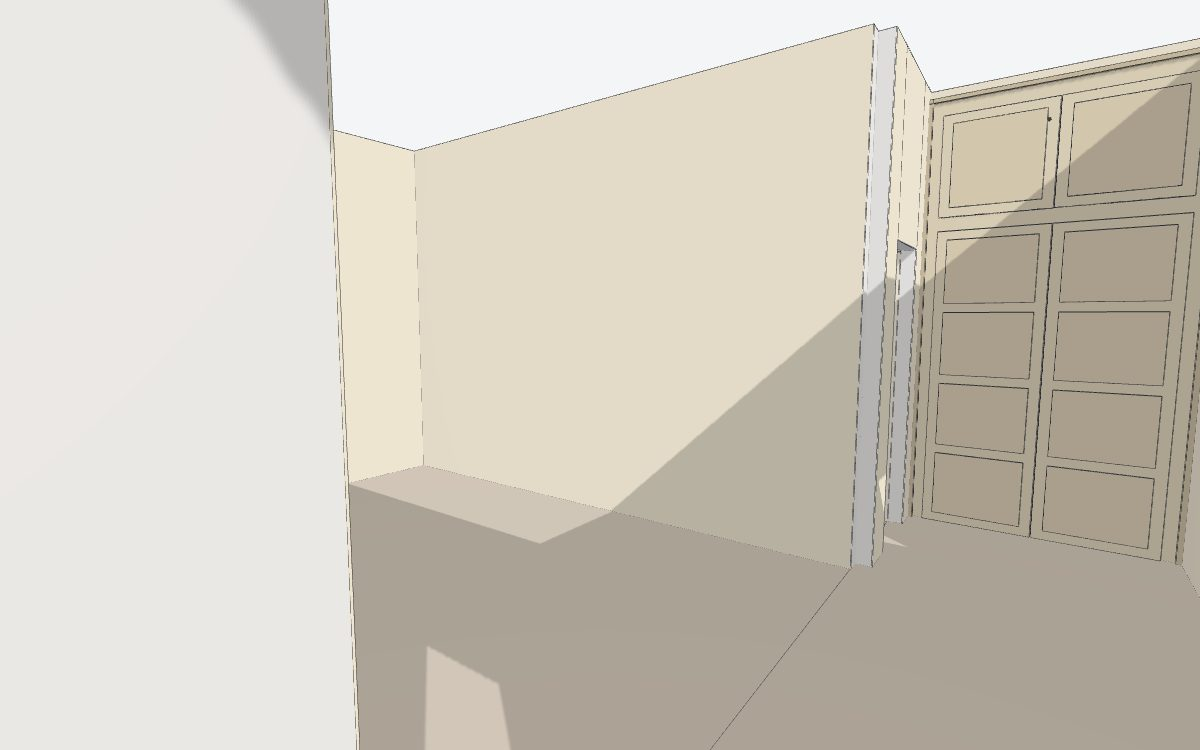
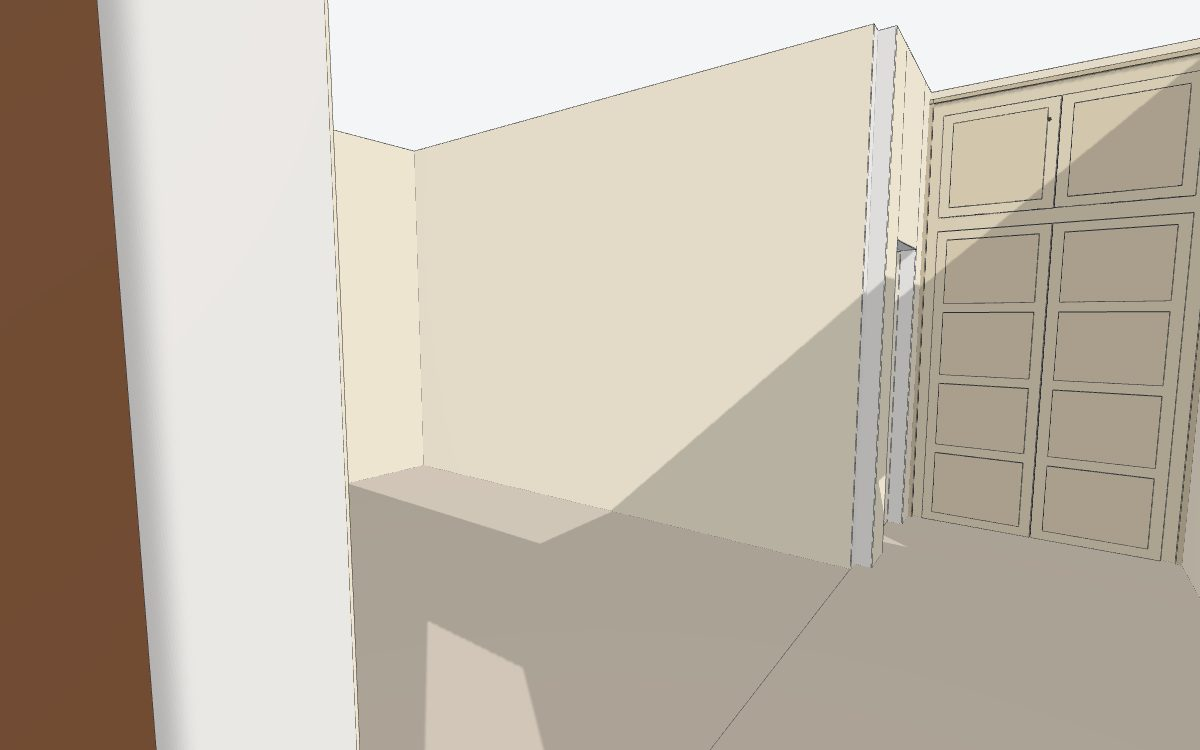
casa-poggi: wall thicknesses from the drawing (bearing 35, camera west and cucina 20, stair 15, partitions 10)
Claude-Session: https://claude.ai/code/session_017Czcnh6xzZxgGSwco7M1Pu

diff --git a/projects/casa-poggi/house.js b/projects/casa-poggi/house.js
@@ -8,9 +8,11 @@ const { box, wall, slab, tube, rbox, group, defGroup } = kit;
 
 // ---------- dimensions (cm) ----------
 const H = 330;                     // ceiling height                                   measured
-const TE = 30;                     // exterior / bearing walls                         estimate
-const TI = 10;                     // partitions                                       estimate
-const TB = 11;                     // partition soggiorno / bagno (360 + TB + 129 = ingresso 500)   estimate
+const TE = 35;                     // bearing walls: cortile and via Poggi facades, east wall   measured on the drawing (scale 3.53 cm/pt)
+const TW = 20;                     // camera west wall, cucina outer walls                    measured on the drawing
+const TS = 15;                     // wall towards the common stair (soggiorno, ingresso)     measured on the drawing
+const TI = 10;                     // partitions                                       user
+const TB = 10;                     // partition soggiorno / bagno                     user
 const ROOMS = {                    // clear interior sizes
   soggiorno: { w: 360, d: 440 },   // measured
   bagno:     { w: 129, d: 440 },   // measured
@@ -25,7 +27,7 @@ const WB = { w: 40, h: 150, sill: 110 };   // bathroom window; sill             
 const DOOR_H = 210, DOOR_W = 80;   // interior doors                                   estimate
 const ENTRY_W = 90;                // front door                                       estimate
 const K_SLANT = { west: 134, south: 63 };   // cucina oblique corner: straight west side 134 of 185, straight south side from the slant to the partition 99 - 63 = 36   estimate (read off the drawing)
-const TK = 15;                     // cucina outer walls (thin on the drawing)         estimate
+const TK = TW;                     // cucina outer walls
 
 // ---------- layout (derived) ----------
 const XR = ROOMS.ingresso.w;                       // inner face of the east wall (500)
@@ -42,11 +44,11 @@ const C = { wall: [236, 233, 228, 255], floor: [196, 186, 172, 255], balcony: [1
 const pf = (cx) => ({ from: cx - PF.w / 2, to: cx + PF.w / 2, head: PF.h });
 
 // ---------- floor ----------
-box('/Casa/Pavimento_Ingresso', C.floor, -TE, YI0 - TI, -4, XR + TE, YS0, 0);
+box('/Casa/Pavimento_Ingresso', C.floor, -TS, YI0 - TI, -4, XR + TE, YS0, 0);
 box('/Casa/Pavimento_Bagno', C.floor, ROOMS.soggiorno.w, YS0, -4, XR + TE, YS1 + TE, 0);
 box('/Casa/Pavimento_Soggiorno', C.floor, 0, YS0, -4, ROOMS.soggiorno.w, YS1 + TE, 0);
 // camera: herringbone parquet (honey oak, 7 x 42 cm boards at 45 degrees, from the user's photo) + darker border band   pattern measured on photo, sizes estimate
-slab('/Casa/Camera/Parquet', [150, 95, 50, 255], [[XC0 - TE, -TE], [XR + TE, -TE], [XR + TE, YI0 - TI], [XC0 - TE, YI0 - TI]], -4, 0);
+slab('/Casa/Camera/Parquet', [150, 95, 50, 255], [[XC0 - TW, -TE], [XR + TE, -TE], [XR + TE, YI0 - TI], [XC0 - TW, YI0 - TI]], -4, 0);
 kit.items[kit.items.length - 1].tex = { url: 'textures/parquet-spina.png', tile: kit.inch(PARQUET.tile) };
 { const o = PARQUET.bandOff, w = PARQUET.bandW, x0 = XC0, x1 = XR, y0 = 0, y1 = YC1, z = 0.3;
   box('/Casa/Camera/Fascia_Sud', PARQUET.band, x0 + o, y0 + o, 0, x1 - o, y0 + o + w, z);
@@ -59,10 +61,10 @@ const ENTRY = { from: YI0 + 35, to: YI0 + 35 + ENTRY_W, head: DOOR_H };
 const SOG_PF = pf(140), CAM_PF = pf(XC0 + 145), BAGNO_WIN = { from: XB0 + 30, to: XB0 + 30 + WB.w, sill: WB.sill, head: WB.sill + WB.h };
 wall('/Casa/Muro_Nord', C.wall, [XK0 - TK, YS1, XR + TE, YS1 + TE], H, [SOG_PF, BAGNO_WIN]);
 wall('/Casa/Muro_Est', C.wall, [XR, -TE, XR + TE, YS1], H);
-wall('/Casa/Muro_Sud', C.wall, [XC0 - TE, -TE, XR, 0], H, [CAM_PF]);
-wall('/Casa/Muro_Ovest_Camera', C.wall, [XC0 - TE, 0, XC0, YC1], H);
-wall('/Casa/Muro_Ovest_Ingresso', C.wall, [-TE, YC1, 0, YK0 - TK], H, [ENTRY]);   // front door from the common stair
-wall('/Casa/Muro_Ingresso_Camera_Ovest', C.wall, [-TE, YC1, XC0, YI0], H);
+wall('/Casa/Muro_Sud', C.wall, [XC0 - TW, -TE, XR, 0], H, [CAM_PF]);
+wall('/Casa/Muro_Ovest_Camera', C.wall, [XC0 - TW, 0, XC0, YC1], H);
+wall('/Casa/Muro_Ovest_Ingresso', C.wall, [-TS, YC1, 0, YK0 - TK], H, [ENTRY]);   // front door from the common stair
+wall('/Casa/Muro_Ingresso_Camera_Ovest', C.wall, [-TS, YC1, XC0, YI0], H);
 
 // ---------- cucina: west wall, oblique wall, south wall in one polygon (inner path, then the outer path offset by TK) ----------
 const KA = [XK0, YS1 - K_SLANT.west], KB = [XK0 + K_SLANT.south, YK0];       // ends of the slant (inner face)
@@ -85,7 +87,7 @@ wall('/Casa/Tramezzo_Bagno_Ingresso', C.wall, [XB0, YI1, XR, YS0], H, [{ from: X
 const DOOR_C = [112, 72, 44, 255], DOOR_T = 5;
 defGroup('porte', 'Porta di ingresso', 'Porte', null, { fixed: true });
 group('porte', () => {
-  const XO = -TE;                                                       // outer face of the wall
+  const XO = -TS;                                                       // outer face of the wall
   box('/Casa/Porta_Ingresso/Anta', DOOR_C, XO - (ENTRY_W - 4), ENTRY.to - DOOR_T, 0, XO, ENTRY.to, DOOR_H - 2);
   tube('/Casa/Porta_Ingresso/Maniglia', [200, 200, 200, 255], [[XO - (ENTRY_W - 14), ENTRY.to - DOOR_T - 1, 105], [XO - (ENTRY_W - 14), ENTRY.to - DOOR_T - 7, 105], [XO - (ENTRY_W - 26), ENTRY.to - DOOR_T - 7, 105]], [1.2, 1.2, 1.2]);
 });
@@ -103,7 +105,7 @@ group('porte', () => {
     wall('/Pittura/Ingresso_Nord', P, [XB0, YI1 - s, XR, YI1], H, [{ from: XB0 + 30, to: XB0 + 100, head: DOOR_H }]);
     wall('/Pittura/Ingresso_Ovest', P, [0, YI0, s, YI1], H, [ENTRY]);
     wall('/Pittura/Ingresso_Est', P, [XR - s, YI0, XR, YI1], H);
-    wall('/Pittura/Facciata_Camera', [224, 186, 124, 255], [XC0 - TE, -TE - s, XR + TE, -TE], H, [CAM_PF]);   // outside face of the camera wall, yellow like the balcony
+    wall('/Pittura/Facciata_Camera', [224, 186, 124, 255], [XC0 - TW, -TE - s, XR + TE, -TE], H, [CAM_PF]);   // outside face of the camera wall, yellow like the balcony
     wall('/Pittura/Soggiorno_Nord', P, [0, YS1 - s, ROOMS.soggiorno.w, YS1], H, [SOG_PF]);
     wall('/Pittura/Soggiorno_Ovest', P, [0, YS0, s, YK0 - TK], H);
     wall('/Pittura/Soggiorno_Est', P, [ROOMS.soggiorno.w - s, YS0, ROOMS.soggiorno.w, YS1], H);
